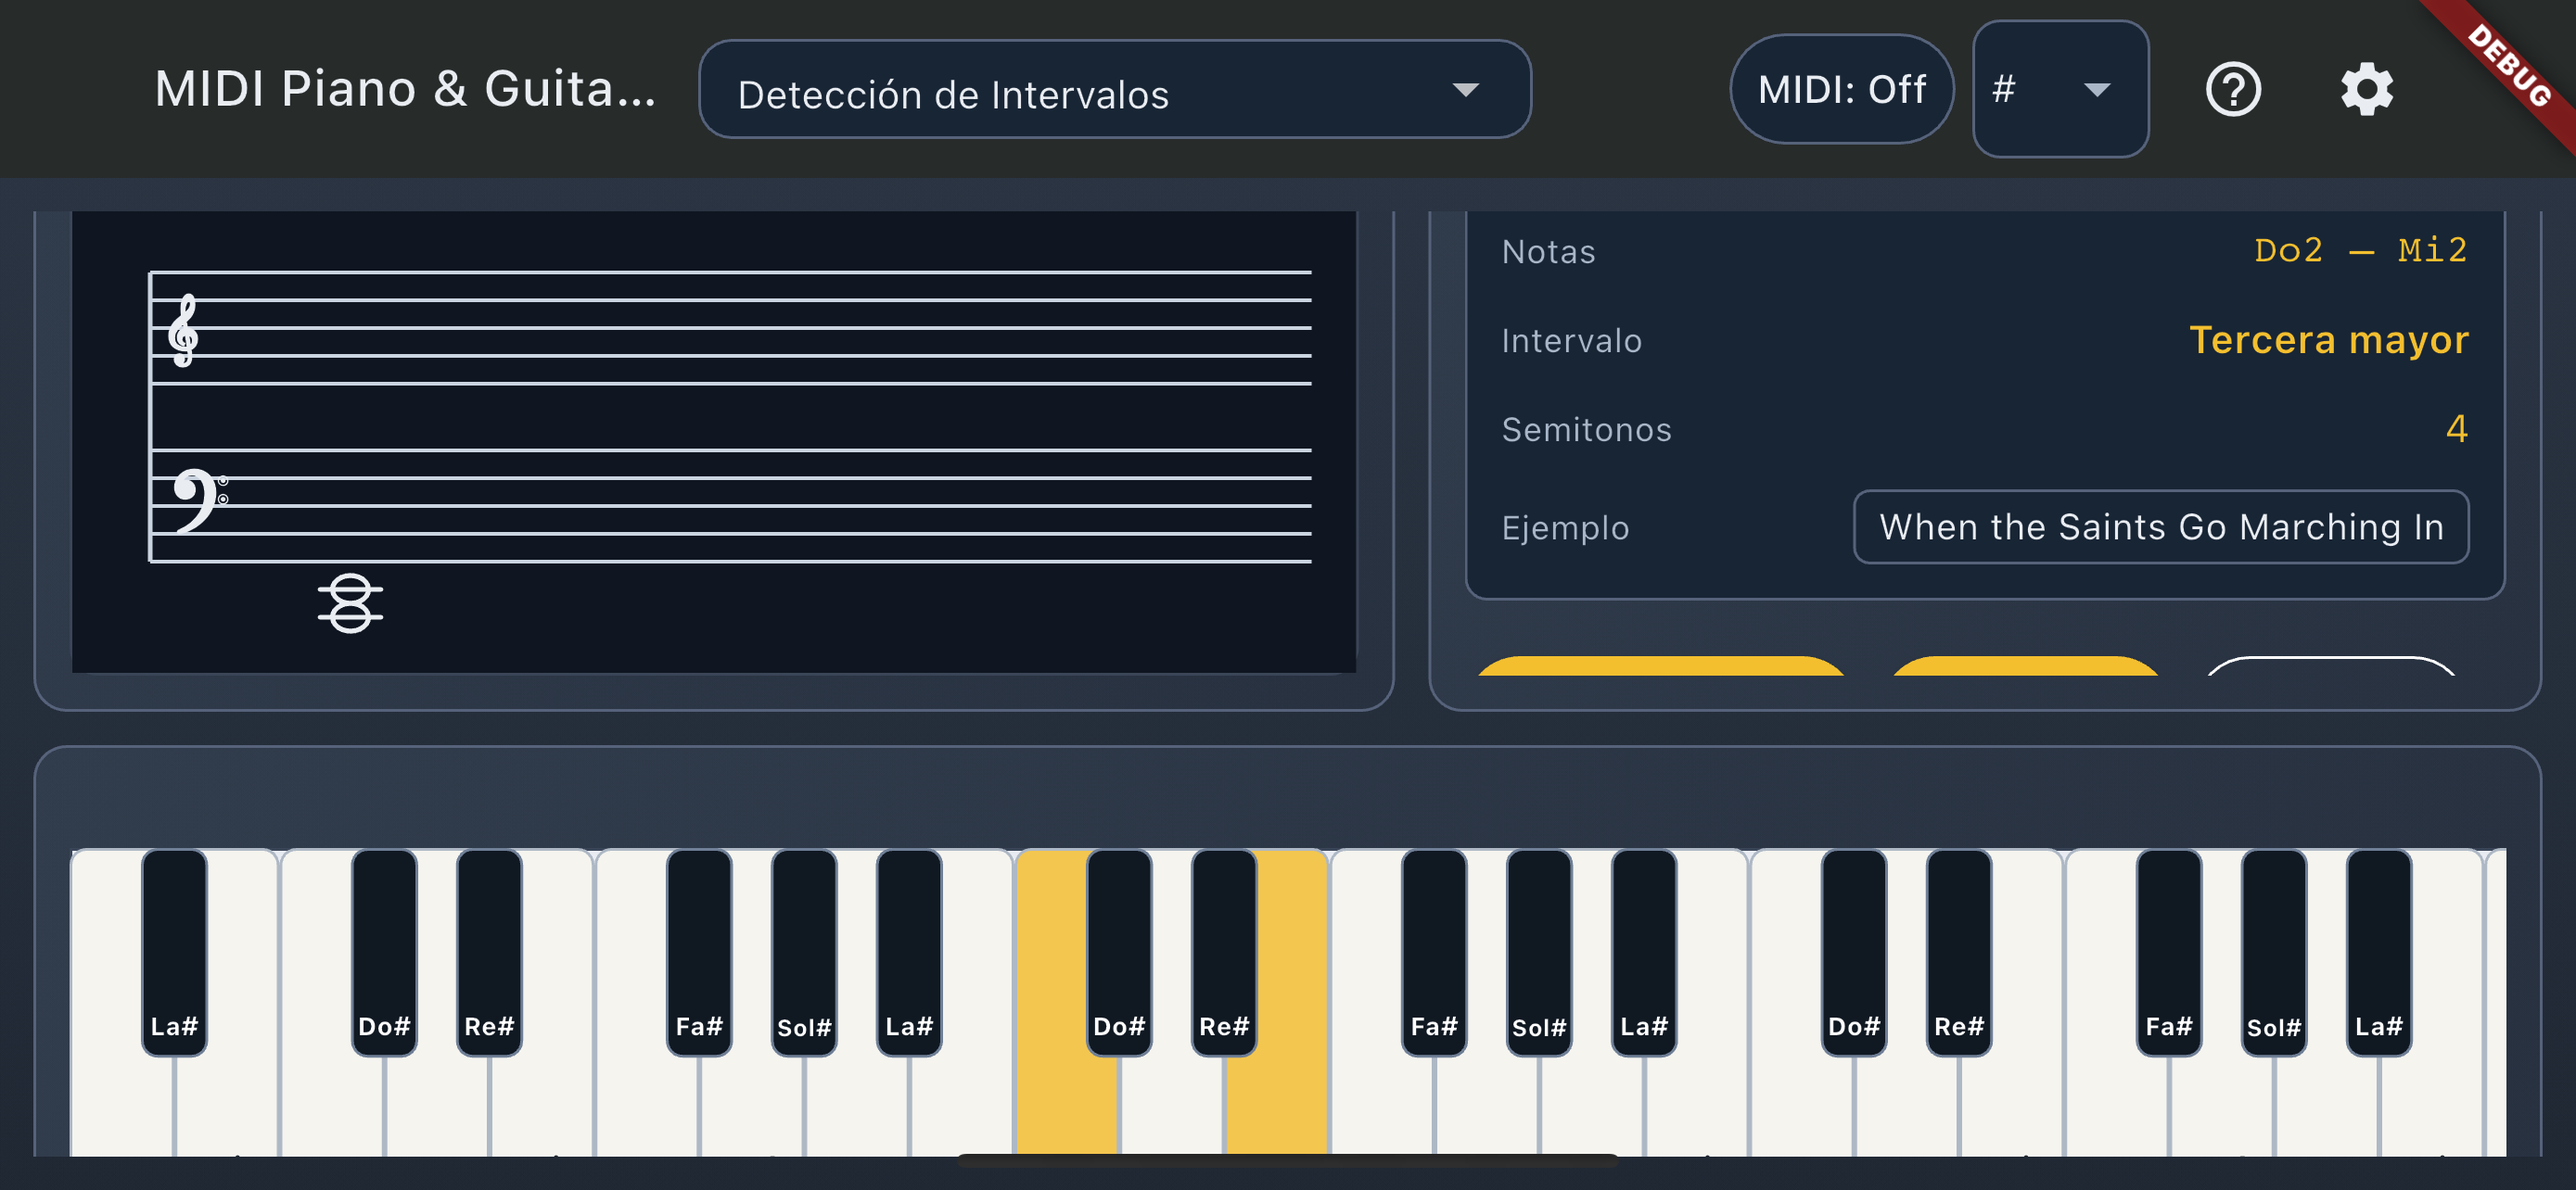
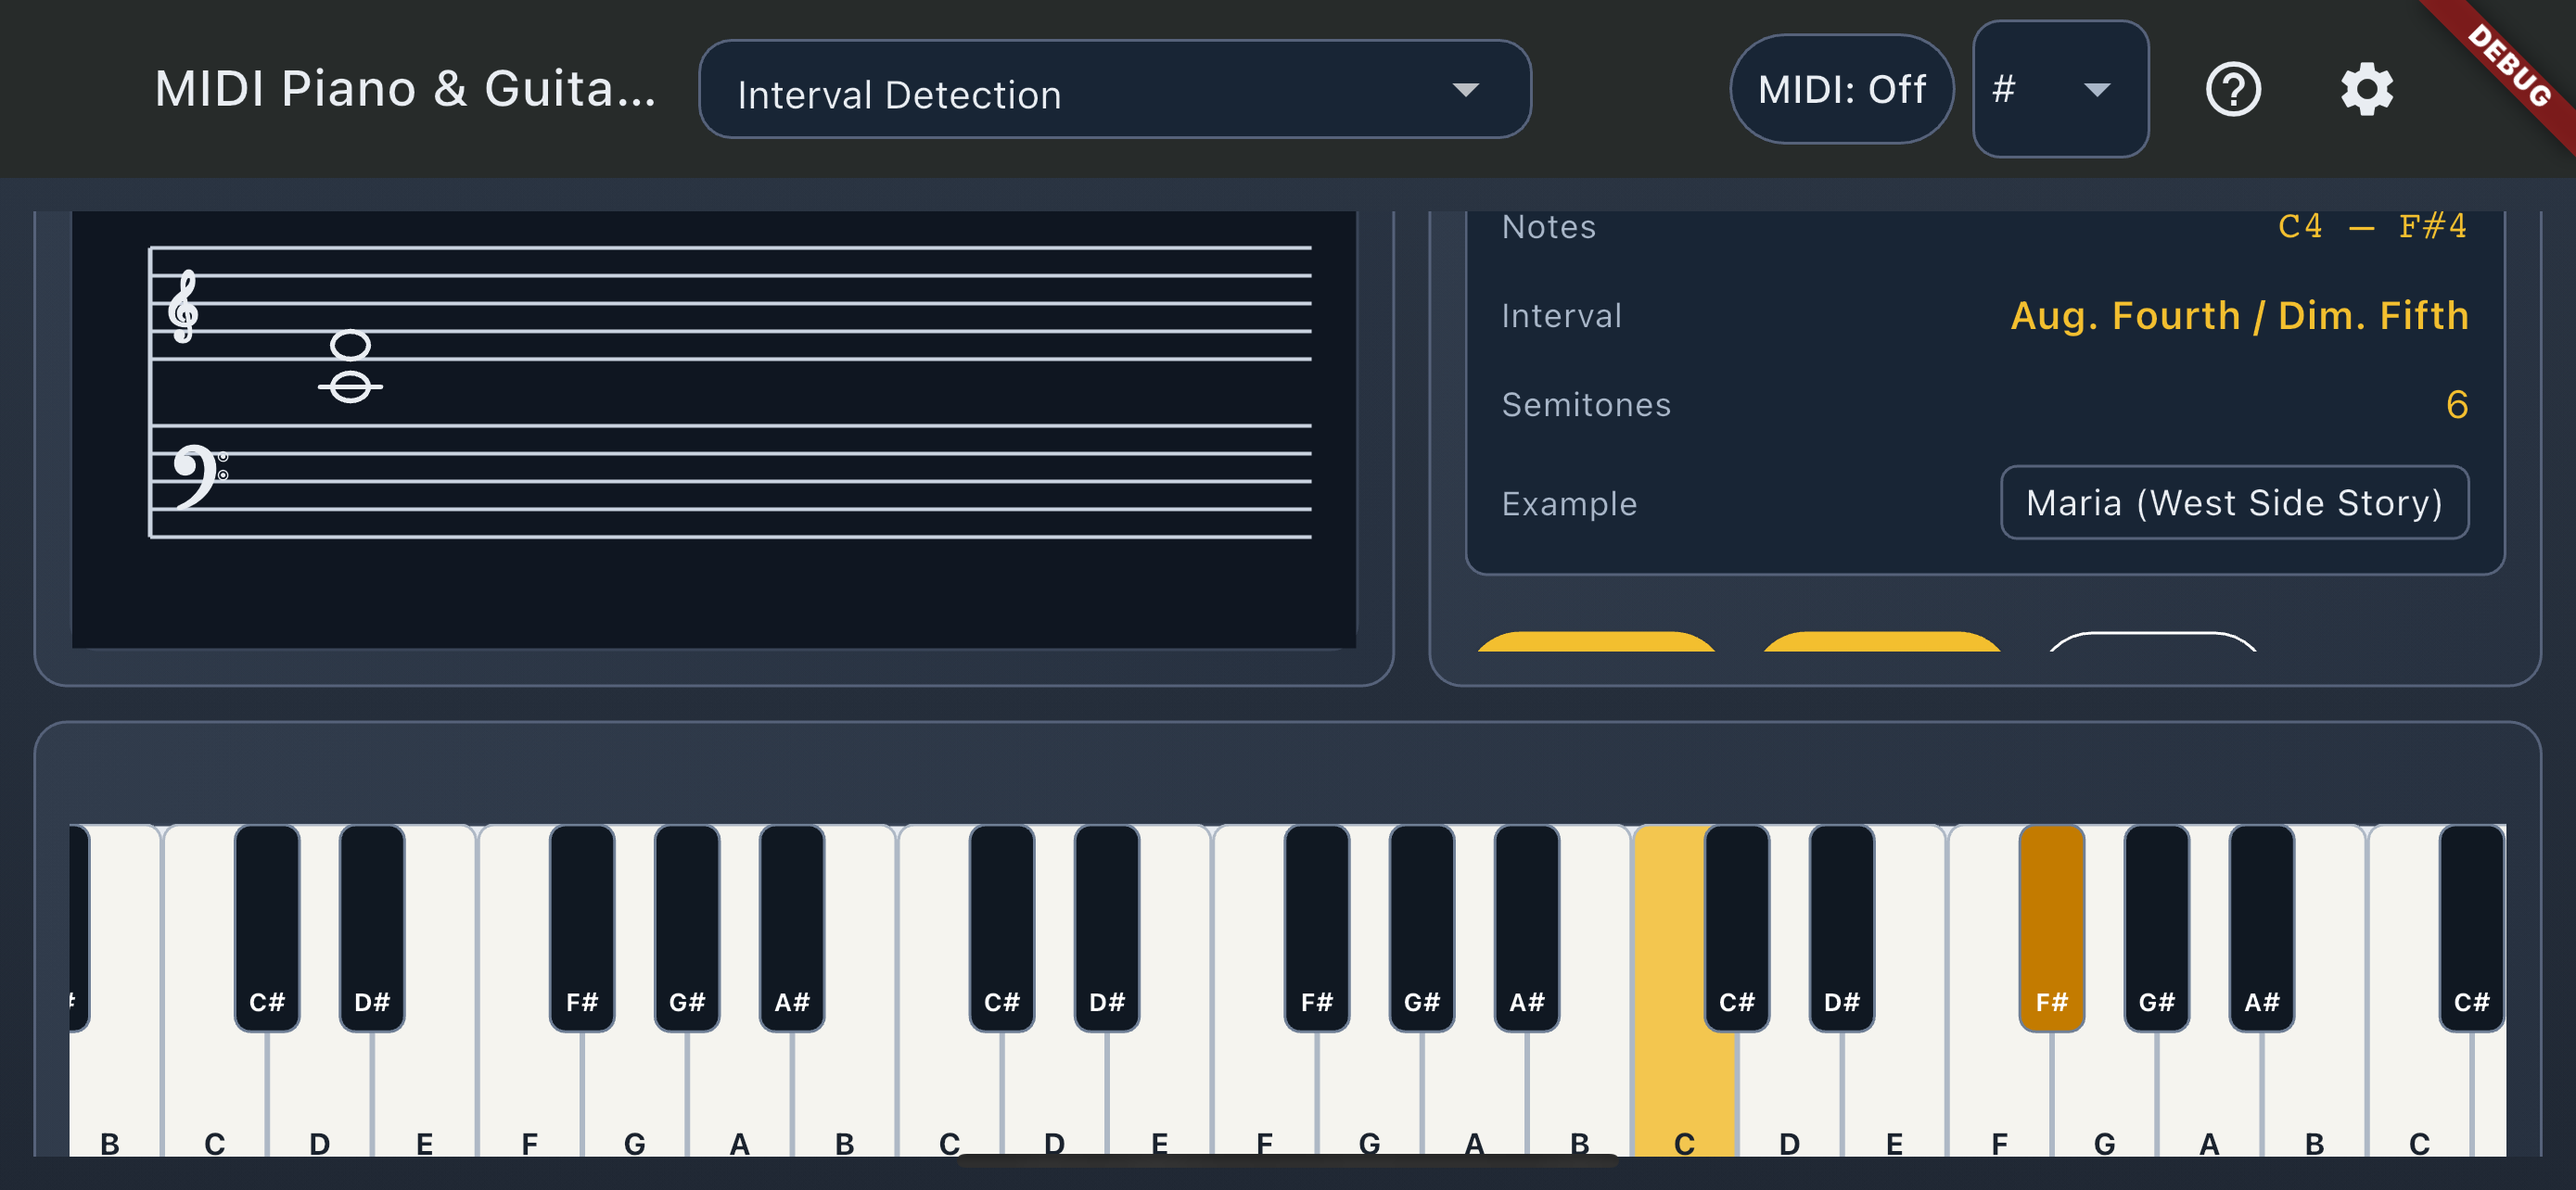
Fix: móvil - scrollbar de Escalas mal posicionado en iPhone landscape; capturas en inglés
El Scrollbar que envolvía el SingleChildScrollView de controles de
Escalas medía mal su thumb en pantallas landscape de iPhone (aparecía
como una línea corta suelta sobre los controles, no en el borde del
panel), aunque funcionaba bien en iPad. Se cambia al mismo patrón que
ya usa el teclado (RawScrollbar como barra dedicada separada del
contenido en vez de superpuesta), que sí se posiciona correctamente en
ambas plataformas.

Las 7 capturas de iPhone se repiten en inglés (las de App Store deben
estar en ese idioma) y con este fix ya aplicado.

diff --git a/apps/mobile_flutter/lib/main.dart b/apps/mobile_flutter/lib/main.dart
@@ -1126,6 +1126,7 @@ class _HomeScreenState extends State<HomeScreen>
   Offset? _dragLastGlobalPos;
   DateTime _dragLastSwitchAt = DateTime.fromMillisecondsSinceEpoch(0);
   final ScrollController _pianoScrollController = ScrollController();
+  final ScrollController _scaleControlsScrollController = ScrollController();
   bool _needsPianoScrollSync = false;
   final Set<int> _forbiddenFlashNotes = <int>{};
   final Map<int, Timer> _forbiddenFlashTimers = <int, Timer>{};
@@ -2674,6 +2675,7 @@ class _HomeScreenState extends State<HomeScreen>
     _scaleOutputController.dispose();
     _helpOverlayController.dispose();
     _pianoScrollController.dispose();
+    _scaleControlsScrollController.dispose();
     _cancelMidiScreenActivityExtension();
     super.dispose();
   }
@@ -9388,9 +9390,12 @@ class _HomeScreenState extends State<HomeScreen>
             (p) => (p['name'] as String?) == _scalePatternName,
           );
 
-          return Scrollbar(
-            thumbVisibility: true,
-            child: SingleChildScrollView(
+          return Row(
+            crossAxisAlignment: CrossAxisAlignment.stretch,
+            children: <Widget>[
+              Expanded(
+                child: SingleChildScrollView(
+            controller: _scaleControlsScrollController,
             child: ConstrainedBox(
               constraints: BoxConstraints(minHeight: constraints.maxHeight),
               child: Column(
@@ -9691,7 +9696,21 @@ class _HomeScreenState extends State<HomeScreen>
               ],
             ),
             ),
-            ),
+                ),
+              ),
+              const SizedBox(width: 6),
+              SizedBox(
+                width: 8,
+                child: RawScrollbar(
+                  controller: _scaleControlsScrollController,
+                  thumbVisibility: true,
+                  thickness: 5,
+                  radius: const Radius.circular(3),
+                  thumbColor: const Color(0xFF6B7A99),
+                  child: const SizedBox.expand(),
+                ),
+              ),
+            ],
           );
         },
       ),
